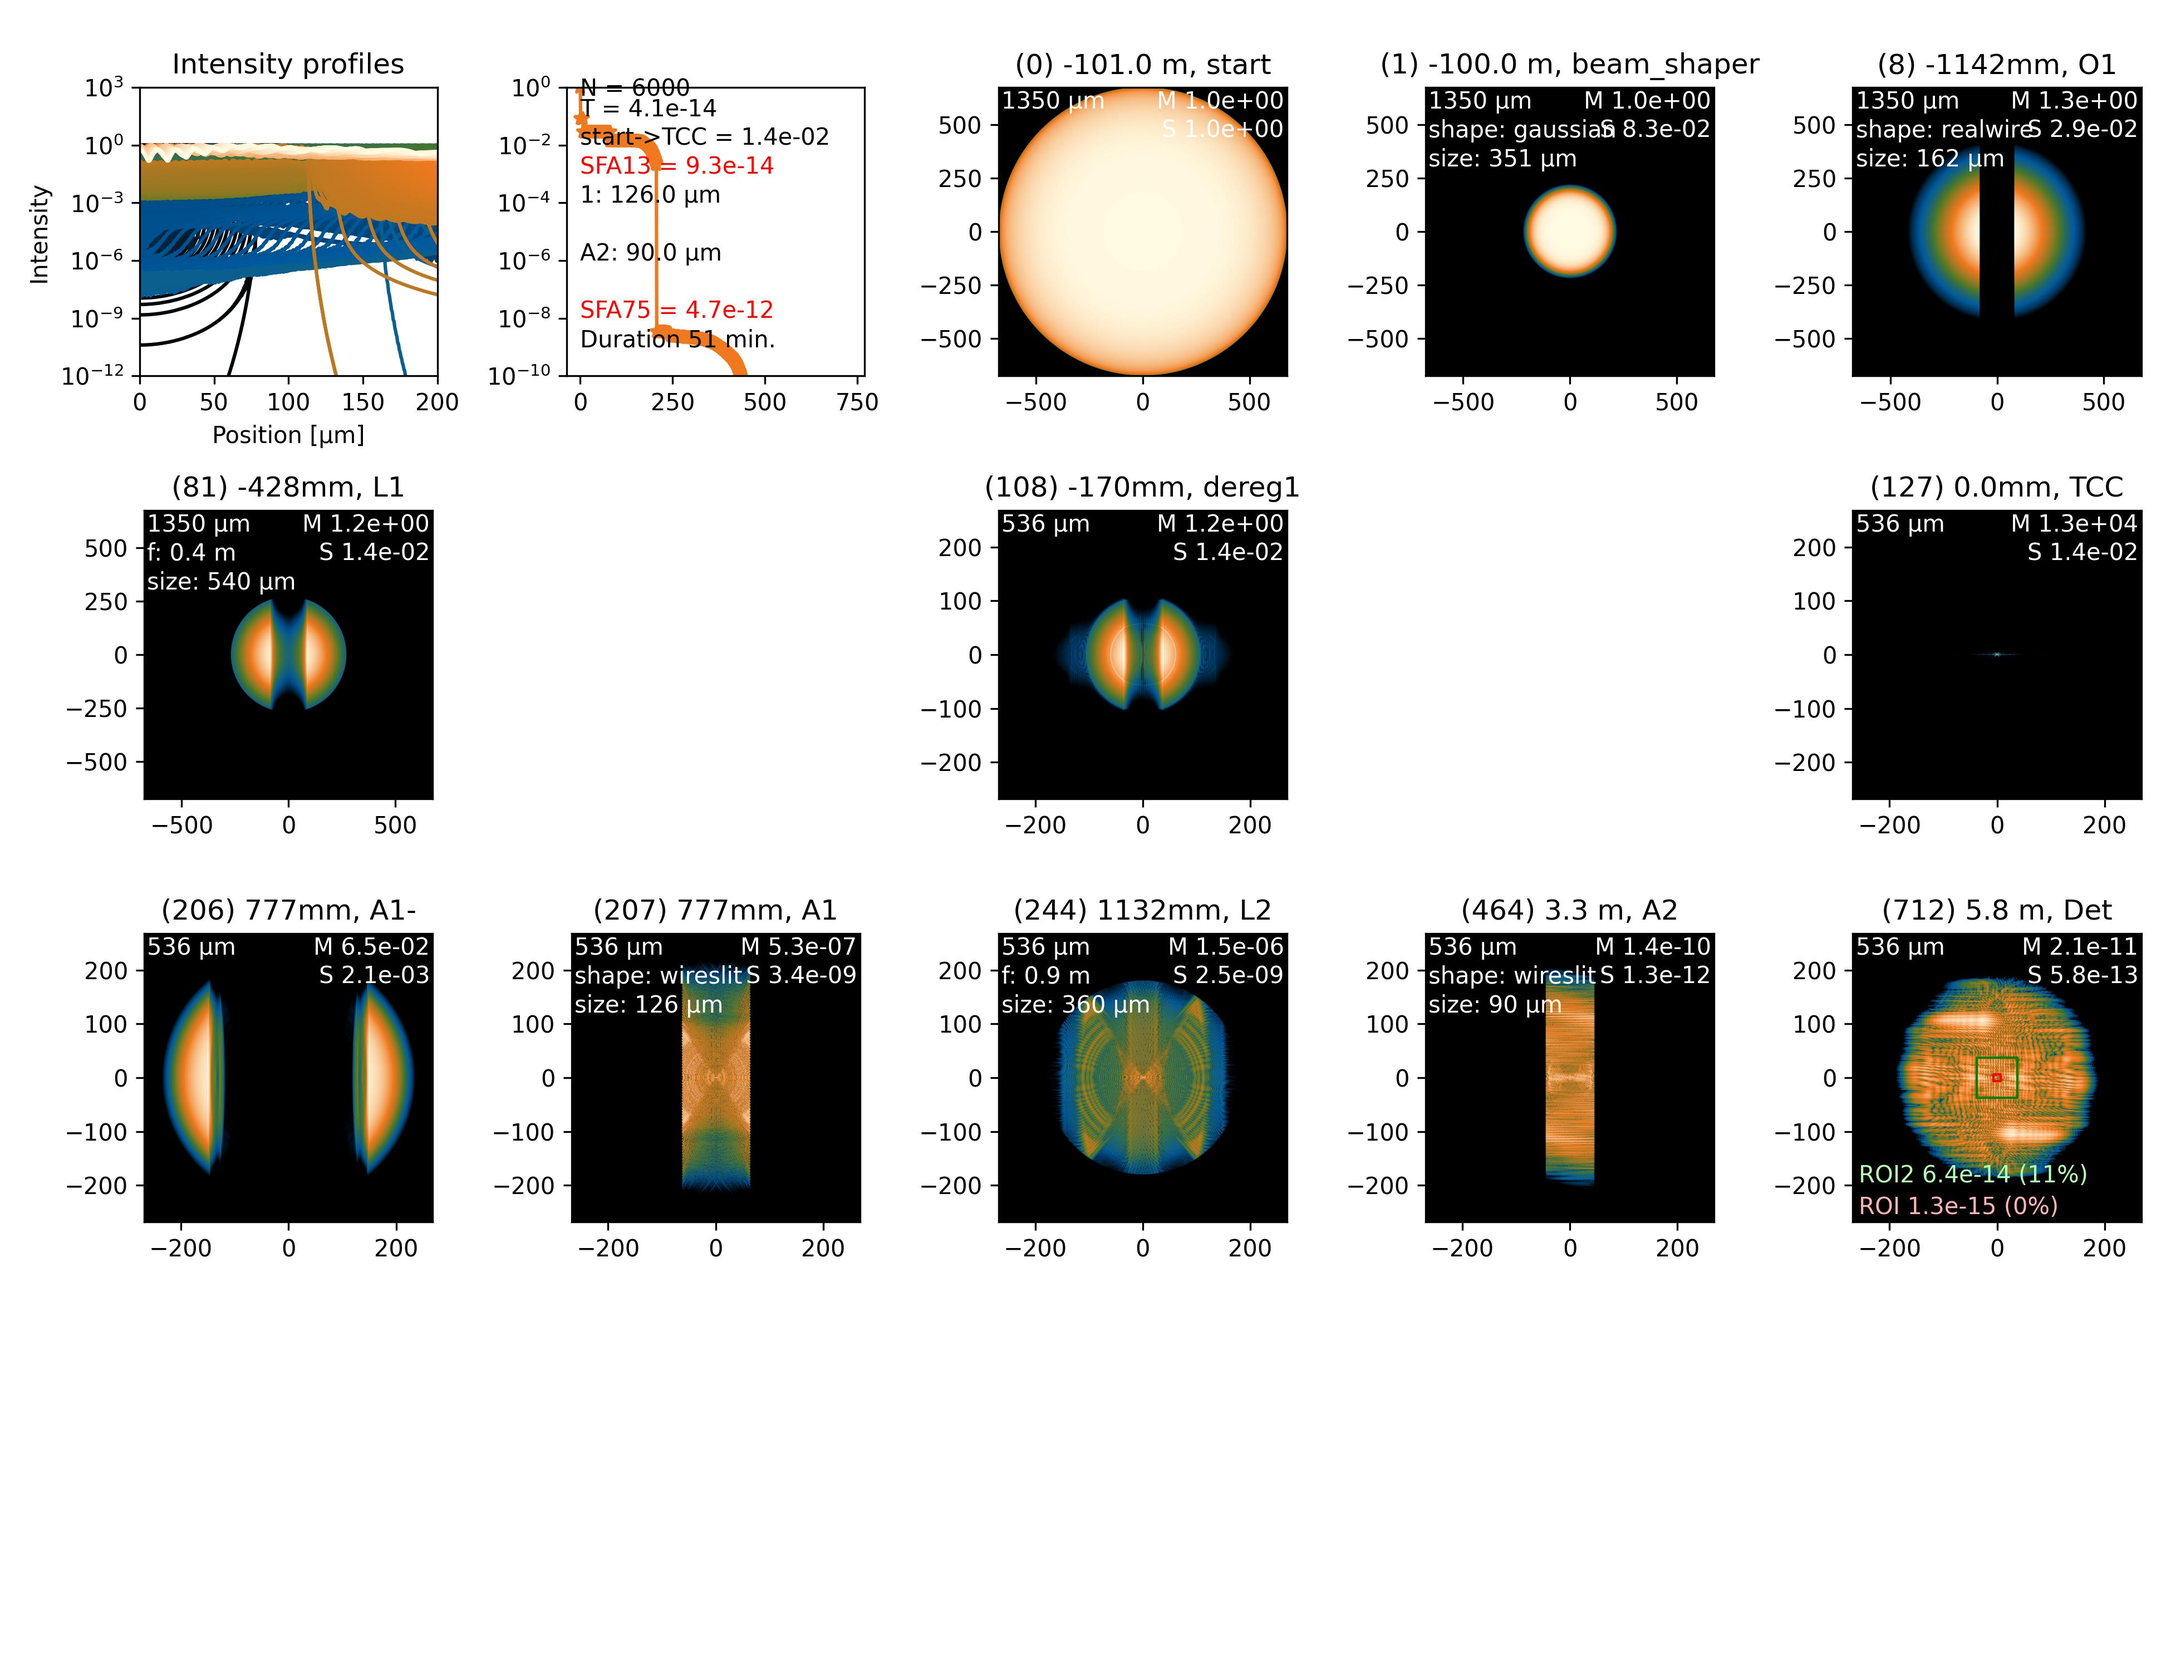
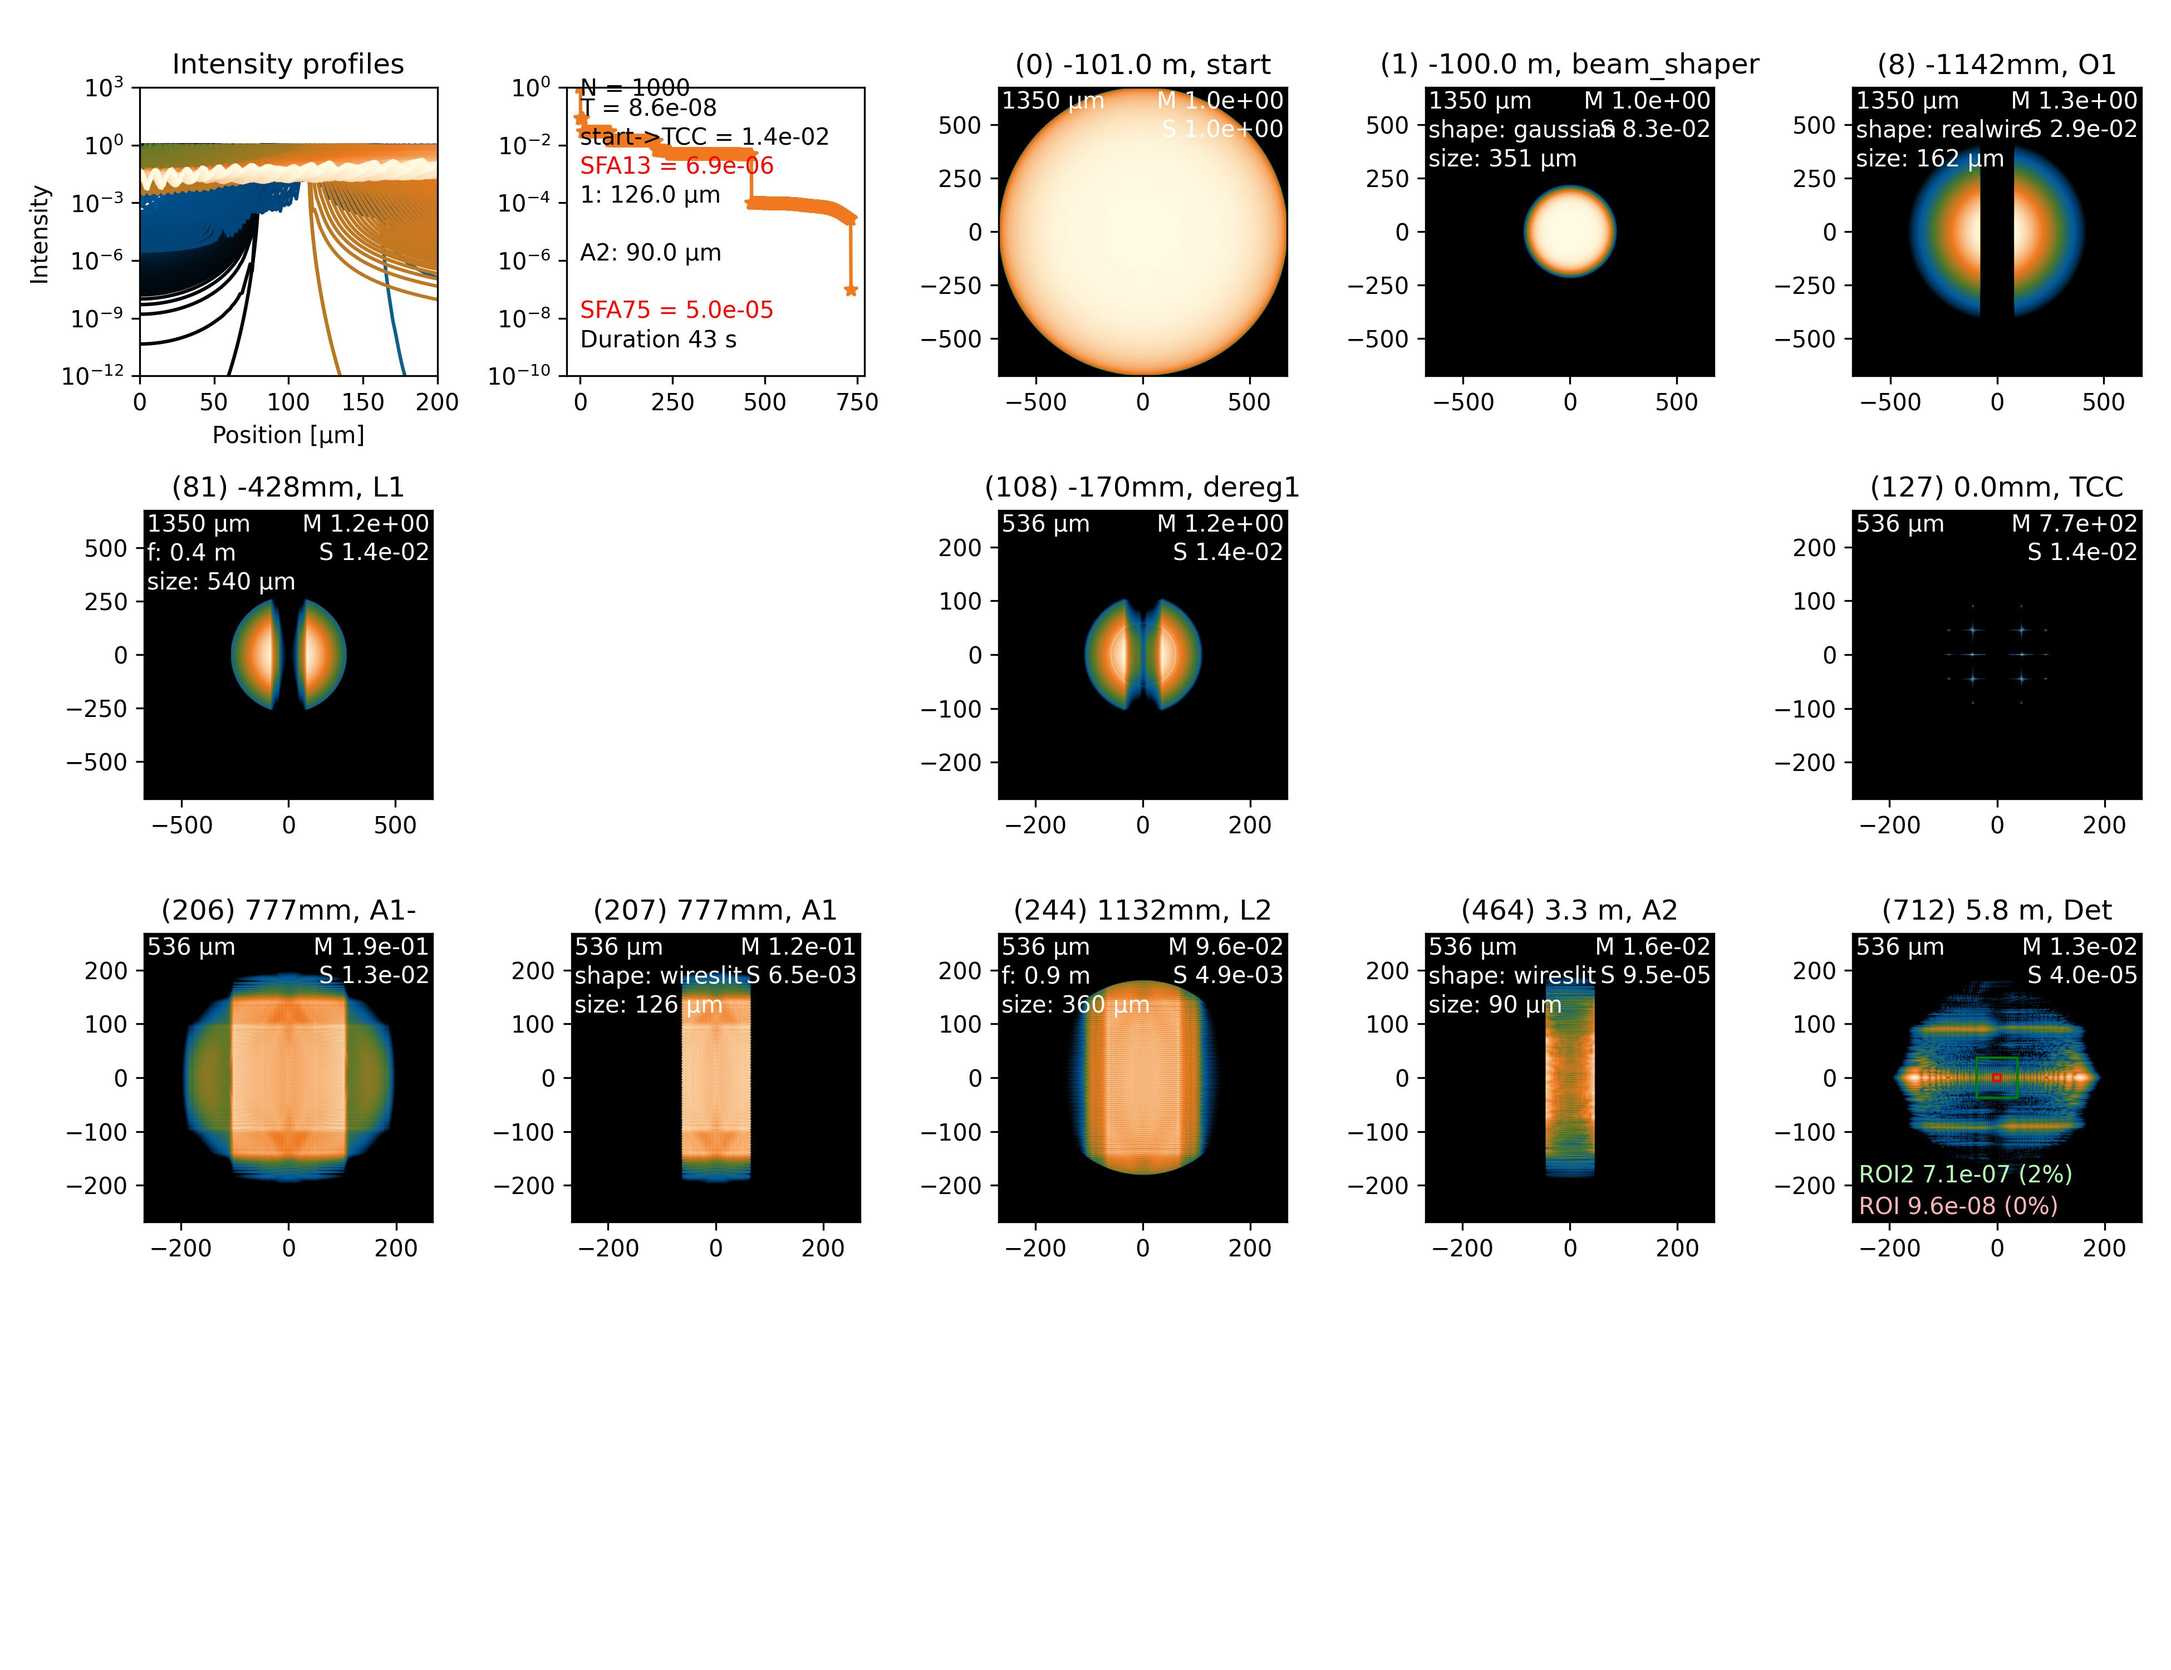
new computer laptop compatible

diff --git a/src/darkfield/dfdf_Aime.py b/src/darkfield/dfdf_Aime.py
@@ -8,8 +8,20 @@ import random
 import yaml
 import argparse
 import warnings
-import numpy as np
+
+######## Import the good backend to work on both cluster and laptop VSCODE ########
+os.environ.pop("MPLBACKEND", None)
+import matplotlib
+if os.environ.get("DISPLAY", "") == "":
+    print("No display detected: using non-interactive 'Agg' backend.")
+    matplotlib.use("Agg")  # Pour le cluster
+else:
+    print("Display detected: using 'TkAgg' backend.")
+    matplotlib.use("TkAgg")  # Pour ton ordi local
 import matplotlib.pyplot as plt
+##################################################################################
+
+import numpy as np
 from pathlib import Path
 from LightPipes import *
 
@@ -21,6 +33,7 @@ reload(df)
 
 warnings.filterwarnings("ignore")
 version = 1
+
 
 # Command-line arguments to make it SLURM-compatible
 def parse_args():
@@ -60,7 +73,7 @@ forcescatter = 0
 
 
 cluster_path = Path("/home/yu79deg/darkfield_p5438")
-local_path = Path("/Users/aime/Library/CloudStorage/Dropbox/QED_at_jena/Backup_codes/Environnement_DF_20Juin/darkfield_p5438")
+local_path = Path("/Users/aimematheron/Dropbox/AimeDF")
 
 if cluster_path.exists():
     basepath = cluster_path
